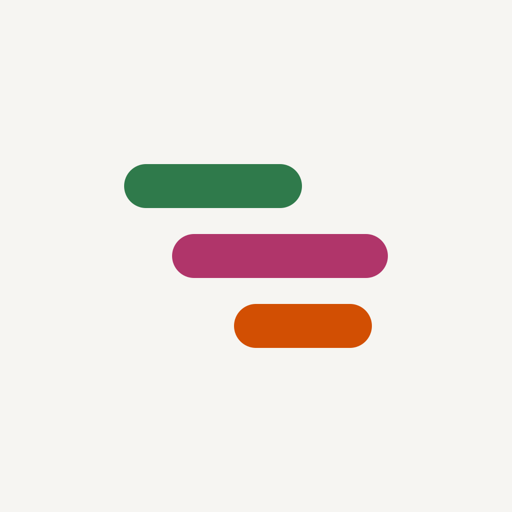
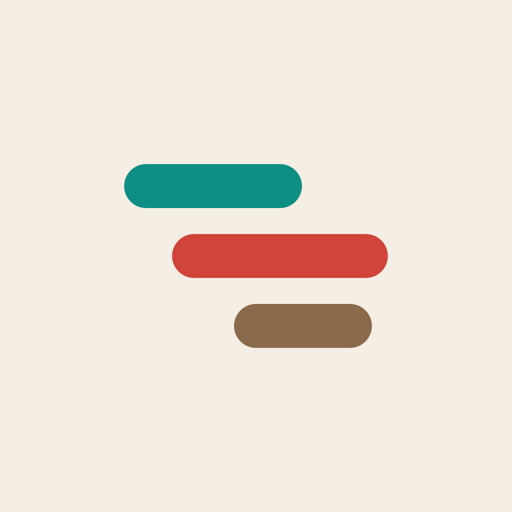
Versione Jess: colori, saluto, foto privata e aree del Casale
- Palette di Jess in tokens.css: beige, verde quasi turchese, rosso;
  tema scuro marrone caldo; grafici entrate/uscite verificati (dataviz)
- Icona ricolorata in tutte le misure
- Oggi: "Buongiorno / Buon pomeriggio / Buonasera, Jess" e foto in cerchio
- Migrazione 006: bucket privato "avatars" con policy per cartella utente;
  la foto si sceglie dal telefono, si ritaglia e rimpicciolisce prima del caricamento
- Aree iniziali: "Lavoro – Casale Allibrio" e "Vita privata"

Changed region(s): [[0.3125, 0.4375, 0.7812, 0.5625], [0.2188, 0.3125, 0.5938, 0.4062], [0.4375, 0.5938, 0.75, 0.6875]]

diff --git a/css/tokens.css b/css/tokens.css
@@ -41,31 +41,33 @@
   --ease: cubic-bezier(0.2, 0.7, 0.3, 1);
   --dur: 160ms;
 
-  /* ---------- Tema chiaro (predefinito) ---------- */
+  /* ---------- Tema chiaro (predefinito): i colori di Jess ----------
+     beige come base, verde quasi turchese per le azioni, rosso per i dettagli */
   color-scheme: light;
-  --bg: #f6f5f2;          /* sfondo pagina, neutro caldo */
-  --surface: #ffffff;     /* liste, pannelli */
-  --surface-2: #efede8;   /* fascia lavoro, tracce, hover */
-  --border: #e4e1db;
-  --border-strong: #c9c5bd;
-  --text: #1c1b19;
-  --text-2: #57534d;      /* testo secondario */
-  --text-3: #736e67;      /* meta, etichette (contrasto AA su bianco e su --bg) */
-  --accent: #1c1b19;      /* pulsanti primari: inchiostro, non un colore */
+  --bg: #f4eee4;          /* beige: sfondo pagina */
+  --surface: #fffdf9;     /* bianco caldo: liste, pannelli */
+  --surface-2: #ece4d6;   /* beige più scuro: fascia lavoro, tracce, hover */
+  --border: #e2d8c8;
+  --border-strong: #c9bca7;
+  --text: #22201c;
+  --text-2: #5a5247;      /* testo secondario */
+  --text-3: #75695a;      /* meta, etichette (contrasto AA su bianco e su --bg) */
+  --accent: #0b6f67;      /* verde-turchese scuro: pulsanti, testo bianco leggibile (contrasto 6:1) */
   --on-accent: #ffffff;
-  --focus: #1f5fd1;
-  --danger: #b42318;
-  --warning: #b54708;
-  --now: #d92d20;         /* linea dell'ora attuale */
+  --focus: #0b6f67;
+  --danger: #a3221b;      /* errori: più scuro del rosso di Jess, per non confonderli */
+  --warning: #a15c07;
+  --now: #d0443c;         /* rosso di Jess: linea dell'ora attuale */
 
-  /* Colori del marchio nella schermata di accesso (gli stessi delle aree iniziali) */
-  --mark-1: #2f7a4b;
-  --mark-2: #d24f03;
-  --mark-3: #b0356a;
+  /* Colori del marchio (schermata di accesso e icona) */
+  --mark-1: #0f8f84;
+  --mark-2: #d0443c;
+  --mark-3: #8a6a4a;
 
-  /* Grafici dei soldi: entrate e uscite (coppia verificata per daltonismo e contrasto) */
-  --chart-in: #2a78d6;
-  --chart-out: #eb6834;
+  /* Grafici dei soldi: entrate verde-turchese, uscite rosse
+     (coppia verificata con lo script della skill dataviz: daltonismo e contrasto) */
+  --chart-in: #0f8f84;
+  --chart-out: #d0443c;
 
   /* Quanto "schiarire" i colori delle aree (0% in chiaro, vedi tema scuro) */
   --area-lift: 0%;
@@ -77,49 +79,49 @@
 @media (prefers-color-scheme: dark) {
   :root:not([data-theme="light"]) {
     color-scheme: dark;
-    --bg: #141412;
-    --surface: #1c1b19;
-    --surface-2: #252421;
-    --border: #2f2d2a;
-    --border-strong: #46433e;
-    --text: #eeece8;
-    --text-2: #b8b4ad;
-    --text-3: #9a958d;
-    --accent: #eeece8;
-    --on-accent: #141412;
-    --focus: #7aa7ff;
+    --bg: #1b1814;            /* marrone molto scuro, non nero: resta caldo come il beige */
+    --surface: #221e19;
+    --surface-2: #2c2721;
+    --border: #383128;
+    --border-strong: #4f463b;
+    --text: #f1ebe2;
+    --text-2: #c4b9aa;
+    --text-3: #a2968a;
+    --accent: #2fa89c;
+    --on-accent: #10201e;
+    --focus: #5cc8bc;
     --danger: #ff8a80;
     --warning: #f5a524;
-    --now: #ff6b5e;
+    --now: #e0584f;
     --area-lift: 30%;
     --shadow-float: 0 6px 20px rgb(0 0 0 / 0.5);
     --shadow-subtle: 0 1px 2px rgb(0 0 0 / 0.4);
-    --chart-in: #3987e5;
-    --chart-out: #d95926;
+    --chart-in: #2fa89c;
+    --chart-out: #e0584f;
   }
 }
 
 :root[data-theme="dark"] {
   color-scheme: dark;
-  --bg: #141412;
-  --surface: #1c1b19;
-  --surface-2: #252421;
-  --border: #2f2d2a;
-  --border-strong: #46433e;
-  --text: #eeece8;
-  --text-2: #b8b4ad;
-  --text-3: #9a958d;
-  --accent: #eeece8;
-  --on-accent: #141412;
-  --focus: #7aa7ff;
+  --bg: #1b1814;            /* marrone molto scuro, non nero: resta caldo come il beige */
+  --surface: #221e19;
+  --surface-2: #2c2721;
+  --border: #383128;
+  --border-strong: #4f463b;
+  --text: #f1ebe2;
+  --text-2: #c4b9aa;
+  --text-3: #a2968a;
+  --accent: #2fa89c;
+  --on-accent: #10201e;
+  --focus: #5cc8bc;
   --danger: #ff8a80;
   --warning: #f5a524;
-  --now: #ff6b5e;
+  --now: #e0584f;
   --area-lift: 30%;
   --shadow-float: 0 6px 20px rgb(0 0 0 / 0.5);
   --shadow-subtle: 0 1px 2px rgb(0 0 0 / 0.4);
-  --chart-in: #3987e5;
-  --chart-out: #d95926;
+  --chart-in: #2fa89c;
+  --chart-out: #e0584f;
 }
 
 /* Colore dell'area: ogni elemento con data-area riceve --area (dal JS)

diff --git a/js/avatar.js b/js/avatar.js
@@ -1,0 +1,88 @@
+// Foto del profilo: si sceglie dal telefono, si rimpicciolisce, si salva nello spazio privato
+// "avatars" di Supabase (cartella = id dell'utente). Si vede solo dopo il login.
+
+import { supabase } from './supabase.js';
+import { showToast, saveErrorMessage } from './ui.js';
+
+const SIZE = 320; // lato della foto salvata, in pixel: basta e avanza per un cerchio di 44px
+
+let userId = null;
+let photoUrl = null; // indirizzo temporaneo (firmato) della foto, oppure null
+
+const path = () => `${userId}/avatar.jpg`;
+
+// Disegna la foto o l'iniziale in tutti i punti dove compare (.avatar)
+function paint() {
+  document.querySelectorAll('.avatar').forEach((el) => {
+    const img = el.querySelector('img');
+    img.hidden = !photoUrl;
+    if (photoUrl) img.src = photoUrl;
+  });
+}
+
+// Un file privato non ha un indirizzo pubblico: Supabase ne crea uno temporaneo ("firmato"),
+// valido un'ora, che funziona solo per chi ha fatto il login
+async function loadPhoto() {
+  const { data, error } = await supabase.storage.from('avatars').createSignedUrl(path(), 60 * 60);
+  photoUrl = error ? null : data.signedUrl; // errore = nessuna foto caricata: resta l'iniziale
+  paint();
+}
+
+// Ritaglia al centro un quadrato e lo rimpicciolisce: da 4 MB a circa 30 KB
+async function resize(file) {
+  const bitmap = await createImageBitmap(file);
+  const side = Math.min(bitmap.width, bitmap.height);
+  const canvas = document.createElement('canvas');
+  canvas.width = canvas.height = SIZE;
+  canvas.getContext('2d').drawImage(
+    bitmap,
+    (bitmap.width - side) / 2, (bitmap.height - side) / 2, side, side, // quadrato centrale della foto
+    0, 0, SIZE, SIZE,
+  );
+  return new Promise((resolve) => canvas.toBlob(resolve, 'image/jpeg', 0.85));
+}
+
+async function upload(file) {
+  try {
+    const blob = await resize(file);
+    const { error } = await supabase.storage.from('avatars').upload(path(), blob, {
+      upsert: true, // sostituisce la foto precedente
+      contentType: 'image/jpeg',
+    });
+    if (error) throw error;
+    await loadPhoto();
+    showToast('Foto aggiornata.');
+  } catch (error) {
+    showToast(error?.message?.includes('decode') || error?.name === 'InvalidStateError'
+      ? 'Questa immagine non si riesce a leggere: prova con un\'altra foto.'
+      : saveErrorMessage(error));
+  }
+}
+
+// Dopo il login: carica la foto dell'utente
+export function initAvatar(id) {
+  userId = id;
+  photoUrl = null;
+  paint();
+  loadPhoto();
+}
+
+// Al logout: niente foto in pagina
+export function clearAvatar() {
+  userId = null;
+  photoUrl = null;
+  paint();
+}
+
+// Una volta sola: il cerchio della foto apre la scelta dell'immagine
+export function initAvatarPicker() {
+  const input = document.getElementById('avatar-input');
+  document.addEventListener('click', (e) => {
+    if (e.target.closest('[data-action="change-photo"]') && userId) input.click();
+  });
+  input.addEventListener('change', () => {
+    const file = input.files[0];
+    input.value = ''; // così si può scegliere di nuovo la stessa foto
+    if (file) upload(file);
+  });
+}

diff --git a/js/main.js b/js/main.js
@@ -7,6 +7,7 @@ import { initItemEditor } from './item-editor.js';
 import { initGoalEditor } from './goal-editor.js';
 import { initMoneyEditor } from './money-editor.js';
 import { initToast, flushToast } from './ui.js';
+import { initAvatar, clearAvatar, initAvatarPicker } from './avatar.js';
 import { isConfigured } from './supabase.js';
 import { onAuthChange, signIn, signUp, signOut } from './auth.js';
 import { loadAll, ensureDefaults, clearData } from './data/db.js';
@@ -16,7 +17,9 @@ const titleEl = document.getElementById('view-title');
 const eyebrowEl = document.getElementById('view-eyebrow');
 
 function renderView(name, view, { isNavigation }) {
-  titleEl.textContent = view.title;
+  // una vista può avere un titolo grande diverso dal nome nel menu (es. Oggi: "Buongiorno, Jess")
+  titleEl.textContent = view.heading?.() ?? view.title;
+  document.getElementById('topbar-avatar').hidden = name !== 'oggi';
   eyebrowEl.textContent = view.eyebrow?.() ?? '';
   document.title = `${view.title} · Jess`;
 
@@ -188,6 +191,7 @@ if (!isConfigured) {
   initGoalEditor();
   initMoneyEditor();
   initToast();
+  initAvatarPicker();
 
   // Il pannello di dettaglio avvisa quando i dati cambiano: ridisegniamo la vista
   // e rimettiamo il focus sull'elemento appena modificato (se è ancora visibile)
@@ -207,9 +211,11 @@ if (!isConfigured) {
   onAuthChange((session) => {
     if (session) {
       showApp(session.user.id);
+      initAvatar(session.user.id);
     } else {
       currentUserId = null;
       clearData();
+      clearAvatar();
       main.innerHTML = '';
       showLogin();
     }

diff --git a/index.html b/index.html
@@ -15,8 +15,8 @@
   <meta name="mobile-web-app-capable" content="yes">
   <meta name="apple-mobile-web-app-title" content="Jess">
   <meta name="apple-mobile-web-app-status-bar-style" content="default">
-  <meta name="theme-color" content="#f6f5f2" media="(prefers-color-scheme: light)">
-  <meta name="theme-color" content="#141412" media="(prefers-color-scheme: dark)">
+  <meta name="theme-color" content="#f4eee4" media="(prefers-color-scheme: light)">
+  <meta name="theme-color" content="#1b1814" media="(prefers-color-scheme: dark)">
 
   <!-- Applica subito il tema salvato, prima che la pagina venga disegnata (evita il "lampo" chiaro) -->
   <script>
@@ -80,7 +80,14 @@
 
     <div class="main-col">
       <header class="topbar">
-        <div>
+        <!-- Foto di Jess (solo nella vista Oggi): toccandola si cambia -->
+        <button class="avatar" id="topbar-avatar" type="button" data-action="change-photo" aria-label="Cambia la tua foto" hidden>
+          <span aria-hidden="true">J</span>
+          <img alt="" hidden>
+        </button>
+        <!-- nascosto solo alla vista: con "hidden" Safari su iPhone a volte non apre la scelta delle foto -->
+        <input class="visually-hidden" id="avatar-input" type="file" accept="image/*" tabindex="-1" aria-hidden="true">
+        <div class="topbar__text">
           <p class="topbar__eyebrow" id="view-eyebrow"></p>
           <h1 class="topbar__title" id="view-title" tabindex="-1"></h1>
         </div>

diff --git a/css/components.css b/css/components.css
@@ -1502,3 +1502,45 @@ select.field {
   font-weight: 600;
   color: var(--text-3);
 }
+
+/* ---------- Foto di Jess nella testata ---------- */
+.topbar {
+  justify-content: flex-start;
+}
+
+.topbar__text {
+  flex: 1;
+  min-width: 0;
+}
+
+.avatar {
+  position: relative;
+  display: grid;
+  place-items: center;
+  width: 52px;
+  height: 52px;
+  flex: none;
+  overflow: hidden;
+  padding: 0;
+  border: 2px solid var(--surface);
+  border-radius: 50%;
+  /* senza foto: iniziale su verde-turchese chiaro */
+  background: color-mix(in oklab, var(--accent) 16%, var(--surface));
+  box-shadow: 0 0 0 1px var(--border-strong);
+  font-size: var(--fs-xl);
+  font-weight: 700;
+  color: var(--accent);
+}
+
+.avatar img {
+  position: absolute;
+  inset: 0;
+  width: 100%;
+  height: 100%;
+  object-fit: cover;
+}
+
+.avatar:focus-visible {
+  outline-offset: 3px;
+  border-radius: 50%;
+}

diff --git a/js/data/db.js b/js/data/db.js
@@ -73,9 +73,9 @@ export async function ensureDefaults() {
   if (areas.length > 0) return;
 
   const { error: areasError } = await supabase.from('areas').upsert([
-    // aree generiche, valide per chiunque: si rinominano e si aggiungono dalle Impostazioni
-    { name: 'Lavoro', color: '#2f7a4b', face: 'work', slot: 'work', position: 0 },
-    { name: 'Vita privata', color: '#b0356a', face: 'personal', slot: 'free', position: 1 },
+    // le aree di Jess, con i suoi colori
+    { name: 'Lavoro – Casale Allibrio', color: '#0f8f84', face: 'work', slot: 'work', position: 0 },
+    { name: 'Vita privata', color: '#d0443c', face: 'personal', slot: 'free', position: 1 },
   ], { onConflict: 'user_id,name', ignoreDuplicates: true });
   if (areasError) throw areasError;
 

diff --git a/js/views/today.js b/js/views/today.js
@@ -17,6 +17,14 @@ export function eyebrow() {
   return formatDayLong(todayISO());
 }
 
+// Titolo grande della vista: un saluto che cambia con l'ora
+export function heading() {
+  const hour = Math.floor(nowMinutes() / 60);
+  if (hour >= 5 && hour < 13) return 'Buongiorno, Jess';
+  if (hour >= 13 && hour < 18) return 'Buon pomeriggio, Jess';
+  return 'Buonasera, Jess';
+}
+
 // Contatori dei sotto-elementi, ricalcolati a ogni render (vedi childStats in ui.js)
 let stats = new Map();
 

diff --git a/css/layout.css b/css/layout.css
@@ -78,11 +78,11 @@
 }
 
 .nav__link[aria-current="page"] {
-  color: var(--text);
+  color: var(--accent);
 }
 
 .nav__link[aria-current="page"] .nav__icon {
-  background: var(--surface-2);
+  background: color-mix(in oklab, var(--accent) 14%, var(--surface));
 }
 
 /* ---------- Desktop ---------- */
